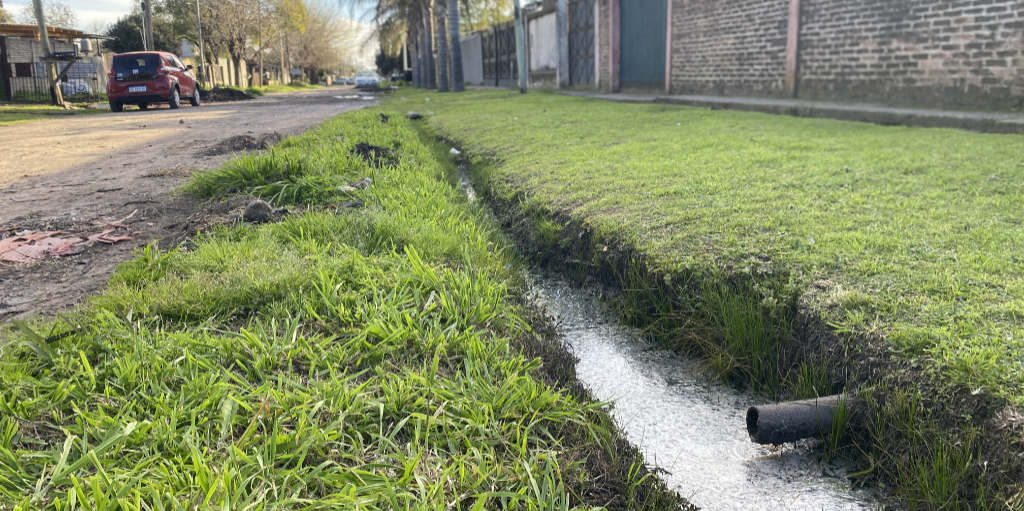
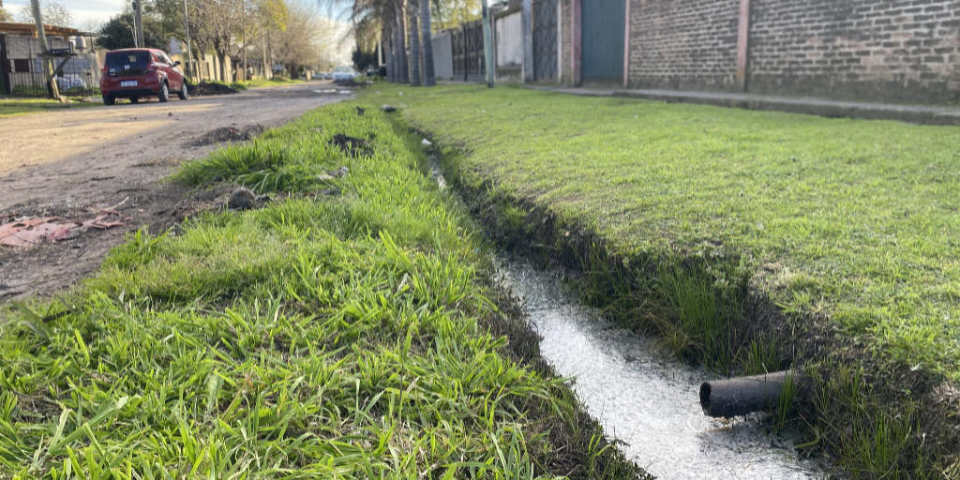
Avance de la investigación "En curso" (derivas 6 y 7)

diff --git a/src/engine/Derivas.ts b/src/engine/Derivas.ts
@@ -76,8 +76,8 @@ export const SPATIAL_DERIVAS: SpatialDeriva[] = [
         title: 'Statement de Artista',
         subtitle: 'Por Diego Flores',
         summary: 'Ejercicio del taller de trabajo final.',
-        x: 0,
-        y: 110,
+        x: -20,
+        y: -250,
         width: 640,
         height: 660,
         accentColor: '#E03E2D',
@@ -90,7 +90,7 @@ export const SPATIAL_DERIVAS: SpatialDeriva[] = [
         subtitle: 'Registro de Taller #03',
         summary: 'Nuevos scripts de simulación de campos de fuerza y bifurcaciones hidráulicas en tiempo real.',
         x: 710,
-        y: -170,
+        y: -190,
         width: 640,
         height: 660,
         accentColor: '#E03E2D',
@@ -102,7 +102,7 @@ export const SPATIAL_DERIVAS: SpatialDeriva[] = [
         title: 'Arroyo del Rey',
         subtitle: 'Registro de Taller #03',
         summary: 'Nuevos scripts de simulación de campos de fuerza y bifurcaciones hidráulicas en tiempo real.',
-        x: -760,
+        x: -780,
         y: 840,
         width: 640,
         height: 660,
@@ -115,13 +115,39 @@ export const SPATIAL_DERIVAS: SpatialDeriva[] = [
         title: 'Ejercicio de recorrido',
         subtitle: 'Registro de Taller #03',
         summary: 'Nuevos scripts de simulación de campos de fuerza y bifurcaciones hidráulicas en tiempo real.',
-        x: 760,
-        y: 840,
+        x: 22,
+        y: 600,
         width: 640,
         height: 660,
         accentColor: '#E03E2D',
         tag: 'CÓDIGO EN PROCESO'
-      }
+      },
+      {
+        id: 'bitacora-06',
+        code: 'TFIC:06',
+        title: 'Macrofitas',
+        subtitle: 'Escalas visibles e invisibles / lógica generativa',
+        summary: 'Una exploración sobre las formas de vida que enlazan la escala del paisaje con la trama microscópica del agua.',
+        x: 750,
+        y: 620,
+        width: 640,
+        height: 660,
+        accentColor: '#E03E2D',
+        tag: 'EXPLORACIÓN'
+      },
+      {
+        id: 'bitacora-07',
+        code: 'TFIC:07',
+        title: 'Emergencias del Territorio',
+        subtitle: 'Registro del territorio y sus emergencias',
+        summary: 'Una exploración de las formas en que el territorio hace visibles sus procesos y transformaciones.',
+        x: 1450,
+        y: 120,
+        width: 640,
+        height: 660,
+        accentColor: '#E03E2D',
+        tag: 'INVESTIGACIÓN'
+      },
     ]
   },
   {
@@ -388,24 +414,24 @@ export const ISLOTES_SPATIAL: IsloteSpatial[] = [
   {
     id: 'islote-bitacora-05-01',
     parentId: 'bitacora-05',
-    x: 1400,
-    y: 550,
+    x: -190,
+    y: 1380,
     width: 400,
     height: 300,
   },
   {
     id: 'islote-bitacora-05-02',
     parentId: 'bitacora-05',
-    x: 1370,
-    y: 946,
+    x: 270,
+    y: 1466,
     width: 400,
     height: 300,
   },
   {
     id: 'islote-bitacora-05-03',
     parentId: 'bitacora-05',
-    x: 1420,
-    y: 1360,
+    x: 720,
+    y: 1260,
     width: 400,
     height: 300,
   },

diff --git a/src/utils/markdown.ts b/src/utils/markdown.ts
@@ -16,6 +16,7 @@ export function renderMarkdownToHtml(markdown: string, variant: 'island' | 'page
         h2: 'font-sans font-bold text-2xl md:text-3xl text-ink-primary tracking-tight mt-10 mb-4',
         h3: 'font-sans font-semibold text-xl text-ink-primary mt-8 mb-3',
         paragraph: 'text-base md:text-lg text-ink-muted leading-relaxed my-4 font-sans',
+        caption: 'mt-2 text-sm text-ink-faint italic leading-relaxed font-sans',
       }
     : {
         blockquote: 'border-l-2 border-cobalt pl-3 py-1 my-2 italic text-ink-muted bg-river-mist/30 text-[11px] font-sans',
@@ -26,6 +27,7 @@ export function renderMarkdownToHtml(markdown: string, variant: 'island' | 'page
         h2: 'font-sans font-bold text-xs text-ink-primary mt-2 mb-1',
         h3: 'font-sans font-semibold text-xs text-ink-primary mt-1 mb-1',
         paragraph: 'text-xs text-ink-muted leading-relaxed my-1 font-sans',
+        caption: 'mt-1 text-[10px] text-ink-faint italic leading-relaxed font-sans',
       };
 
   const lines = markdown.split(/\r?\n/);
@@ -86,7 +88,7 @@ export function renderMarkdownToHtml(markdown: string, variant: 'island' | 'page
     }
 
     const youtubeMatch = line.match(/^\[youtube:([A-Za-z0-9_-]{11})\]$/i);
-    const imageMatch = line.match(/^!\[([^\]]*)\]\(([^)\s]+)(?:\s+"[^"]*")?\)$/);
+    const imageMatch = line.match(/^!\[([^\]]*)\]\(([^)\s]+)(?:\s+"[^"]*")?\)(?:\s+\*([^*]+)\*)?$/);
 
     if (youtubeMatch) {
       const videoId = youtubeMatch[1];
@@ -106,6 +108,7 @@ export function renderMarkdownToHtml(markdown: string, variant: 'island' | 'page
     } else if (isPage && imageMatch) {
       const altText = imageMatch[1];
       const imageSrc = imageMatch[2];
+      const caption = imageMatch[3]?.trim();
       htmlLines.push(`
         <figure class="my-8 w-full">
           <img
@@ -114,6 +117,7 @@ export function renderMarkdownToHtml(markdown: string, variant: 'island' | 'page
             loading="lazy"
             decoding="async"
             class="h-auto w-full object-contain">
+          ${caption ? `<figcaption class="${styles.caption}">${caption}</figcaption>` : ''}
         </figure>
       `);
     } else if (line.startsWith('# ')) {

diff --git a/src/data/subcursos.ts b/src/data/subcursos.ts
@@ -78,9 +78,33 @@ export const SUBCURSOS: SubcursoDefinition[] = [
     categoryLabel: 'REGISTRO', captionLabel: 'ARROYO DEL REY',
     timeReference: '31 de agosto de 2026', 
   },
+  {
+    course: 'curso00', parentDerivaId: 'en-curso', subcurso: 'curso006', itemId: 'bitacora-06',
+    imageUrl: '/curso00/subcursos/curso006/medios/arroyo-macrofitas-v01.jpg',
+    pageMarkdownFile: '/curso00/subcursos/curso006/contenidos/macrofitas.md',
+    code: 'TFIC:06',
+    title: 'Macrófitas - Visualización de un territorio generativo',
+    subtitle: 'Escalas visibles (MACRO) e invisibles (MICRO)',
+    description: 'Las macrófitas (plantas acuáticas del arroyo) contienen de alguna manera el territorio. En su crecimiento quedan inscriptas las condiciones del lugar. Su cualidad de "macro" contiene, a su vez, lo "micro". Las macrófitas son una emergencia visible de procesos invisibles dentro del territorio. Pero al mismo tiempo que son su consecuencia, participan activamente de su transformación, siempre cambiante, siempre sujetas a las nuevas condiciones de generación.',
+    tag: 'NATURALEZA',
+    accentColor: '#E03E2D',
+    captionLabel: 'GENERATIVA',
+  },
+  {
+    course: 'curso00', parentDerivaId: 'en-curso', subcurso: 'curso007', itemId: 'bitacora-07',
+    imageUrl: '/curso00/subcursos/curso007/medios/collage-emergencia-01.jpg',
+    pageMarkdownFile: '/curso00/subcursos/curso007/contenidos/emergencia.md',
+    code: 'TFIC:07',
+    title: 'Emergencias del Territorio',
+    subtitle: 'El territorio produce formas inesperadas. Las formas producen territorio',
+    tag: 'INVESTIGACIÓN',
+    accentColor: '#E03E2D',
+    categoryLabel: 'MICRO / MACRO',
+    captionLabel: 'EMERGENCIA',
+  },
     
 
- //
+//
  // CURSO:01 - MAE UNTREF
  //
   {

diff --git a/public/curso00/subcursos/curso005/contenidos/pagina-curso.md b/public/curso00/subcursos/curso005/contenidos/pagina-curso.md
@@ -1,26 +1,36 @@
-# Recorrido / Arroyo del Rey / Rayo de Sol
+# Recorrido / Arroyo del Rey
+## Rayo de Sol - Longchamps
 ### Domingo 31 de agosto de 2026
 
 El domingo, después de almorzar en la casa de mi familia, salí caminando en dirección a Rayo de Sol. A tan solo 3 cuadras, las calles ya dejan de ser asfaltadas y bordeando las veredas hay unas acequias, más bien **zanjas a cielo abierto** —porque no hay una sistema de acequias implementado— que sirven para el escurrimiento pluvial en estas zonas donde no hay drenajes ni conductos entubados.
 
-![Zanjas en Longchamps](/curso00/subcursos/curso005/medios/recorrido-001.jpg)
+
+Las zanjas surcan el territorio, son como pequeñas incisiones que conectan las casas, las calles y los arroyos con la cuenca. **La extensión de la vida doméstica como como cauce improvisado**.
+
+![Zanjas en Longchamps](/curso00/subcursos/curso005/medios/recorrido-001.jpg) *Las zanjas conectan la intimidad de las casas con la inmensidad de la cuenca.*
+
+El sistema de zanjas recibe el agua de lluvia, desagües, residuos, sedimentos y todo aquello que el territorio produce y no sabe dónde poner. **Las zanjas dibujan así una hidrografía paralela**, cotidiana y casi invisible. Son cicatrices, cauces e infraestructuras precarias a la vez. Surcos que conectan la vida doméstica con la cuenca.
+
+![Zanjas como hidrografía paralela ](/curso00/subcursos/curso005/medios/recorrido-006.jpg) *El sistema de zanjas pone a circular los excedentes de la vida doméstica por el territorio.*
 
 El plan era explorar el nacimiento del Arroyo del Sol y recorrerlo alrededor de un kilómetro, en un punto donde abandona por un momento las áreas pobladas para meterse en un área protegida del partido de Almirante Brown llamada **"El Camino de las Flores"**.
 
-![El Camino de las Flores](/curso00/subcursos/curso005/medios/recorrido-002.jpg)
+![El Camino de las Flores](/curso00/subcursos/curso005/medios/recorrido-002.jpg) *El Camino de las Flores: área protegida del partido de Almirante Brown.*
 
 El nacimiento del arroyo se ubica en la intersección de la calle Manuela Pedraza y Manuel Belgrano. En ese punto es un curso de agua de poca embergadura que recibe los desagües pluviajes de todas las zanjas del barrio. Desde ahí, el itinerario bordea el arroyo hasta la ruta 16 para meterse de lleno en El Camino de las Flores.
 
 ![Itinerario](/curso00/subcursos/curso005/medios/recorrido-mapa.jpg)
-![Nacimiento del arroyo](/curso00/subcursos/curso005/medios/recorrido-003.jpg)
-> Nacimiento (visible) del arroyo en Manuela Pedraza y Manuel Belgrano
+![Nacimiento del arroyo](/curso00/subcursos/curso005/medios/recorrido-003.jpg) *Nacimiento (visible) del arroyo en Manuela Pedraza y Manuel Belgrano.*
 
-![Cruce con ruta 16](/curso00/subcursos/curso005/medios/recorrido-004.jpg)
-> Cruce del Arroyo del Rey por debajo de la ruta 16
+![Cruce con ruta 16](/curso00/subcursos/curso005/medios/recorrido-004.jpg) *Cruce del Arroyo del Rey por debajo de la ruta 16.*
 
 En este punto, el arroyo empieza a recibir otros cursos de agua y en la medida que atraviesa la reserva se vuelve más ancho y la vegetación más abundante. La basura va a quedando atrás y el paisaje se vuelve más agreste y salvaje (al menos por un rato).
 
-![Arroyo del Rey en el Camino de las Flores](/curso00/subcursos/curso005/medios/recorrido-005.jpg)
+![Arroyo del Rey en el Camino de las Flores](/curso00/subcursos/curso005/medios/recorrido-005.jpg) *El Arroyo del Rey reverdece al atravesar el área protegida de "El camino de las flores".*
+
+Como si hubieran estado esperando ese momento de privacidad, **las plantas acuáticas (macrófitas)** se lanzan sobre el arroyo. Se amontonan, se expanden, ocupan el agua con una confianza insolente. Avanzan sin pedir permiso.
+
+![Las macrófitas sobre el arroyo](/curso00/subcursos/curso005/medios/recorrido-007.jpg) *Las plantas acuáticas cubren por completo la superficie del arroyo con total desparpajo.*
 
 Unos doscientos metros dentro del área protegida los sonidos de los pájaros se mezclan con el de los autos de la ruta y una música que se escucha a lo lejos.
 

diff --git a/public/curso00/subcursos/curso006/contenidos/macrofitas.md b/public/curso00/subcursos/curso006/contenidos/macrofitas.md
@@ -1,0 +1,22 @@
+# Macrófitas
+
+## La visualización de un territorio generativo
+
+En botánica, **macrófita** refiere a una planta acuática suficientemente grande o conspicua como para ser visible a simple vista, en contraste con organismos o estructuras microscópicas. El recorrido realizado revela la relación existente entre la vegetación (o la “biomasa”, en general) y la presencia de asentamientos urbanos. A medida que el arroyo se distancia de las zonas de mayor densidad urbana y se interna en áreas con menor intervención, la presencia de macrófitas se vuelve cada vez más evidente, como si la vegetación hiciera visible un cambio en las condiciones del territorio. A los pocos metros de adentrarse en el área protegida —El Camino de las Flores—, el arroyo comienza rápidamente a cubrirse de macrófitas.
+  
+![Macrófitas sobre la superficie del arroyo](/curso00/subcursos/curso006/medios/arroyo-macrofitas-v01.jpg) *Lecho verde  de macrófitas sobre la superficie del arroyo.*
+   
+  
+## Emergencia: la generatividad de las macrófitas
+Durante esta deriva se observan esas formas como un sistema generativo. Cada crecimiento, ramificación y acumulación puede leerse como una regla que produce variaciones: ***una emergencia visible de procesos invisibles***. Las siguientes son versiones sintéticas de macrófitas, generadas mediante código e inteligencia artificial: 
+![Macrófitas generativas v0](/curso00/subcursos/curso006/medios/arroyo-macrofitas-gen-v00.jpg)
+![Macrófitas generativas v1](/curso00/subcursos/curso006/medios/arroyo-macrofitas-gen-v01.jpg)
+![Macrófitas generativas v2](/curso00/subcursos/curso006/medios/arroyo-macrofitas-gen-v02.jpg) *Versiones generativas de las macrófitas con diferentes grados de detalle.*
+
+Las macrofitas permiten pensar juntas **dos escalas** que suelen separarse: la extensión visible de una planta en el paisaje y la trama microscópica de organismos, filamentos y corrientes que la sostiene. 
+**1. Macro**: aquello que el territorio permite ver. 
+**2. Micro**: aquello que está operando pero permanece fuera de nuestra percepción inmediata.
+
+Las macrófitas dependen de las condiciones físicas, químicas y biológicas del arroyo para crecer y desarrollarse: la disponibilidad de nutrientes, la calidad y el movimiento del agua, la luz, el tipo de sedimento y otros factores ambientales condicionan su presencia y distribución. A su vez, estas plantas dejan de ser meras consecuencias del entorno y comienzan a transformarlo. Sus raíces retienen sedimentos, sus tallos modifican el movimiento del agua y su crecimiento genera refugio y nuevas condiciones para otros organismos. Hasta pueden producir turbulencias que alteren el propio curso del arroyo.
+
+> El agua determina dónde crece la planta, pero la planta modifica cómo circula el agua.

diff --git a/public/curso00/subcursos/curso005/contenidos/contenido-curso.md b/public/curso00/subcursos/curso005/contenidos/contenido-curso.md
@@ -1,8 +1,8 @@
-Me crié en Longchamps, una localidad del conurbano sur, a unos 40 km del centro. En el año 97, recién egresado de la Universidad de Buenos Aires y con un trabajo nuevo, alquilé un departamento pequeño a 4 cuadras del obelisco y me vine a vivir al centro. Fue el mismo año en el que el Banco Interamericano de Desarrollo aprobó un crédito para la gestión ambiental de la cuenta Matanza-Riachuelo. Cuatro años antes, Menem había hecho su infame promesa de limpiar el Riachuelo en 1000 días.
+Me crié en Longchamps, una localidad del conurbano sur, a unos 40 km del centro. En el año 97, recién egresado de la Universidad de Buenos Aires y con un trabajo nuevo, alquilé un departamento pequeño a 4 cuadras del Obelisco y me vine a vivir al centro. Fue el mismo año en que el Banco Interamericano de Desarrollo aprobó un crédito para la gestión ambiental de la cuenca Matanza-Riachuelo. Cuatro años antes, Menem había hecho su infame promesa de limpiar el Riachuelo en 1000 días.
 
 Un tiempo después, mientras cursaba la carrera de Diseño Gráfico, tuve que investigar el trabajo que la organización pública ACUMAR está llevando a cabo para el saneamiento de esta cuenca.
 
-Siempre supe que la cuenca Matanza-Riachuelo era enorme, pero recién no hace mucho descubrí que un arroyo que nace a unas quince cuadras de la casa donde viví en Longchamps forma parte de esta cuenca y que, después de atravezar varios partidos del conurbano sur, desemboca en el Riachuelo.
+Siempre supe que la cuenca Matanza-Riachuelo era enorme, pero recién hace no mucho descubrí que un arroyo que nace a unas quince cuadras de la casa donde viví en Longchamps forma parte de ella. Un arroyo que atraviesa varias localidades del conurbano sur hasta desembocar en el Riachuelo. 
 
 Esta fue la motivación para el recorrido que inicia en Rayo de Sol, donde nace el Arroyo del Rey.
 

diff --git a/public/curso00/subcursos/curso007/contenidos/emergencia.md b/public/curso00/subcursos/curso007/contenidos/emergencia.md
@@ -1,0 +1,24 @@
+# Emergencias del Territorio
+
+![Las emergencias del territorio](/curso00/subcursos/curso007/medios/collage-emergencia-02.jpg)
+   
+  
+## Emergencia. Lo inesperado se torna visible
+
+El territorio es investigado a través de todo aquello que emerge de sus múltiples interacciones: agua, vegetación, sedimentos, contaminación, infraestructura, organismos, comunidades y tecnologías. La investigación observa esas emergencias en distintas escalas, entre lo visible y lo invisible, lo macro y lo micro, y explora cómo traducir algunos de sus comportamientos en obras.
+
+## Los Grados de Emergencia
+
+### 1. Emergencia como aparición
+Algo que emerge en el territorio, reflota en el arroyo: una planta, un organismo, una relación.
+
+### 2. Emergencia como crisis
+El territorio produce situaciones urgentes: contaminación, inundación, precariedad, residuos.
+
+### 3. Emergencia como generación
+Algo produce otra cosa. El agua produce sedimentación. La vegetación modifica el flujo. La infraestructura produce desvíos.
+
+### 4. Emergencia como imprevisibilidad
+Algo aparece que no estaba completamente determinado. Conectar directamente la **emergencia con lo impredecible, con la generatividad y con la co-creación**.
+
+> Este tipo de creación pretende desplazar la producción unilateral hacia una práctica de **co-creación** con el territorio.

diff --git a/documentos/guía.md b/documentos/guía.md
@@ -387,6 +387,14 @@ el Markdown debe contener:
 
 No usar una ruta relativa al propio archivo Markdown como `./medios/recorrido-001.jpg`. En el sitio, `/` representa la raíz pública del dominio. Las imágenes de las páginas editoriales se muestran de manera responsive, ocupan el ancho disponible y utilizan `lazy loading`.
 
+Para agregar una leyenda, escribir el texto en cursiva inmediatamente después del Markdown de la imagen, en la misma línea:
+
+```markdown
+![Recorrido por el Arroyo del Rey](/curso00/subcursos/curso005/medios/recorrido-001.jpg) *Recorrido del Arroyo del Rey, Longchamps — 31 de agosto de 2026.*
+```
+
+La leyenda se genera como un elemento `figcaption`, con un tamaño menor y estilo diferenciado del cuerpo editorial.
+
 ### Insertar un video de YouTube
 
 Usar una línea independiente con el identificador de once caracteres del video:

diff --git a/README.md b/README.md
@@ -585,11 +585,11 @@ public/
 
 ### 11\.3. Modelo de contenidos
 
-El catálogo de `src/data/subcursos.ts` define actualmente diecinueve subderivas, distribuidas así:
+El catálogo de `src/data/subcursos.ts` define actualmente veinte subderivas, distribuidas así:
 
 | Curso | Región | Contenido actual |
 | --- | --- | --- |
-| `curso00` | `en-curso` | Cinco registros de bitácora y experimentación |
+| `curso00` | `en-curso` | Siete registros de bitácora y experimentación |
 | `curso01` | `untref` | Cinco obras de Artes Electrónicas / MAE |
 | `curso02` | `generativa` | Seis series de Processing, gráfica y video |
 | `curso03` | `pensamiento` | Tres ensayos, apuntes y manifiestos de diseño |

diff --git a/documentos/implementación.md b/documentos/implementación.md
@@ -10,7 +10,7 @@ La estructura actual comprende cuatro cursos principales:
 
 | Curso | Tema | Subderivas actuales |
 | --- | --- | ---: |
-| `curso00` | En Curso / bitácora | 5 |
+| `curso00` | En Curso / bitácora | 7 |
 | `curso01` | Artes Electrónicas / UNTREF | 5 |
 | `curso02` | Gráfica Generativa | 6 |
 | `curso03` | Pensamiento & Diseño | 3 |
